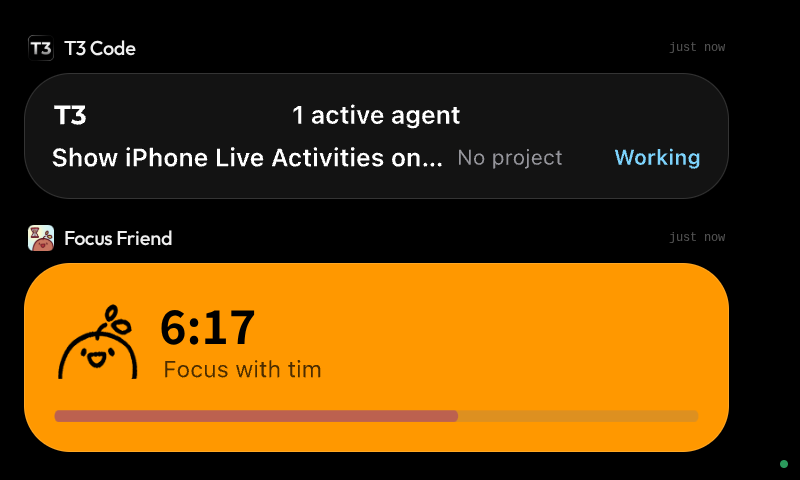
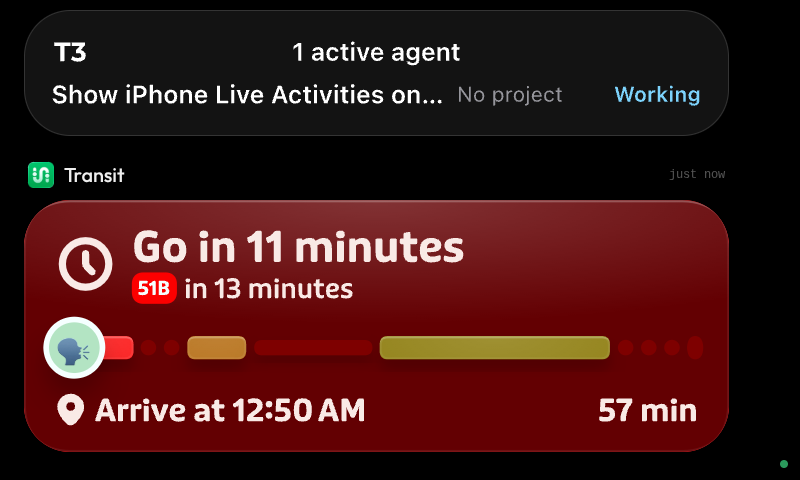
README: two screenshots, one with a multi-leg Transit trip

diff --git a/README.md b/README.md
@@ -10,11 +10,9 @@ and progress bars iOS keeps ticking. Control Center just plays that archive back
 the system's own store, decodes Apple's undocumented format, and hands them to the Car Thing, which draws them as vector
 graphics at its own resolution, with the live parts still live.
 
-![Two Live Activities on a Car Thing: a T3 Code agent run and a Focus Friend timer](docs/images/1-pair.png)
-
 <p>
-  <img src="docs/images/2-transit.png" width="49%" alt="A Transit trip with its dotted walking leg and progress bar" />
-  <img src="docs/images/3-focus.png" width="49%" alt="A Focus Friend countdown with its tinted card and live progress bar" />
+  <img src="docs/images/1-pair.png" width="49%" alt="A T3 Code agent run above a multi-leg Transit trip with walking dots, ride segments and a transfer" />
+  <img src="docs/images/2-focus.png" width="49%" alt="A Focus Friend countdown with its tinted card and live progress bar" />
 </p>
 
 ## Requirements
